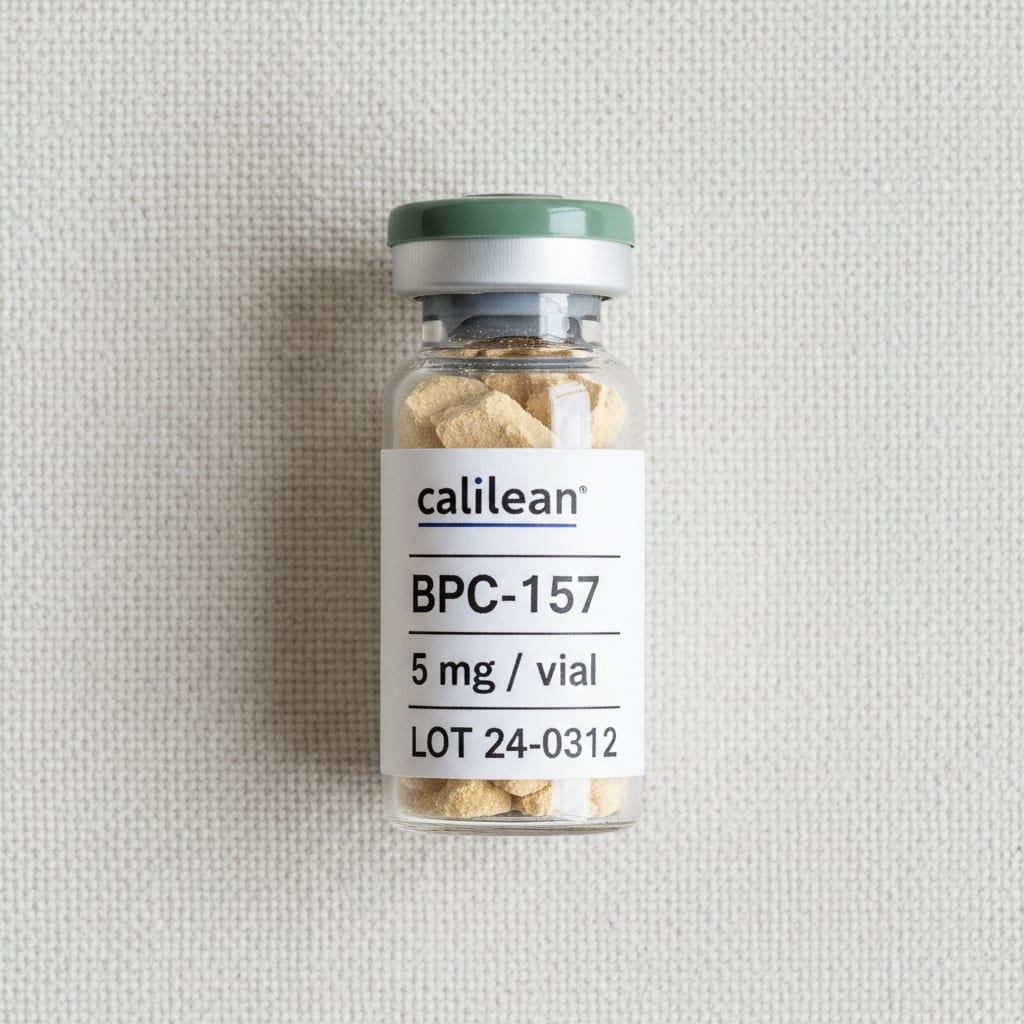
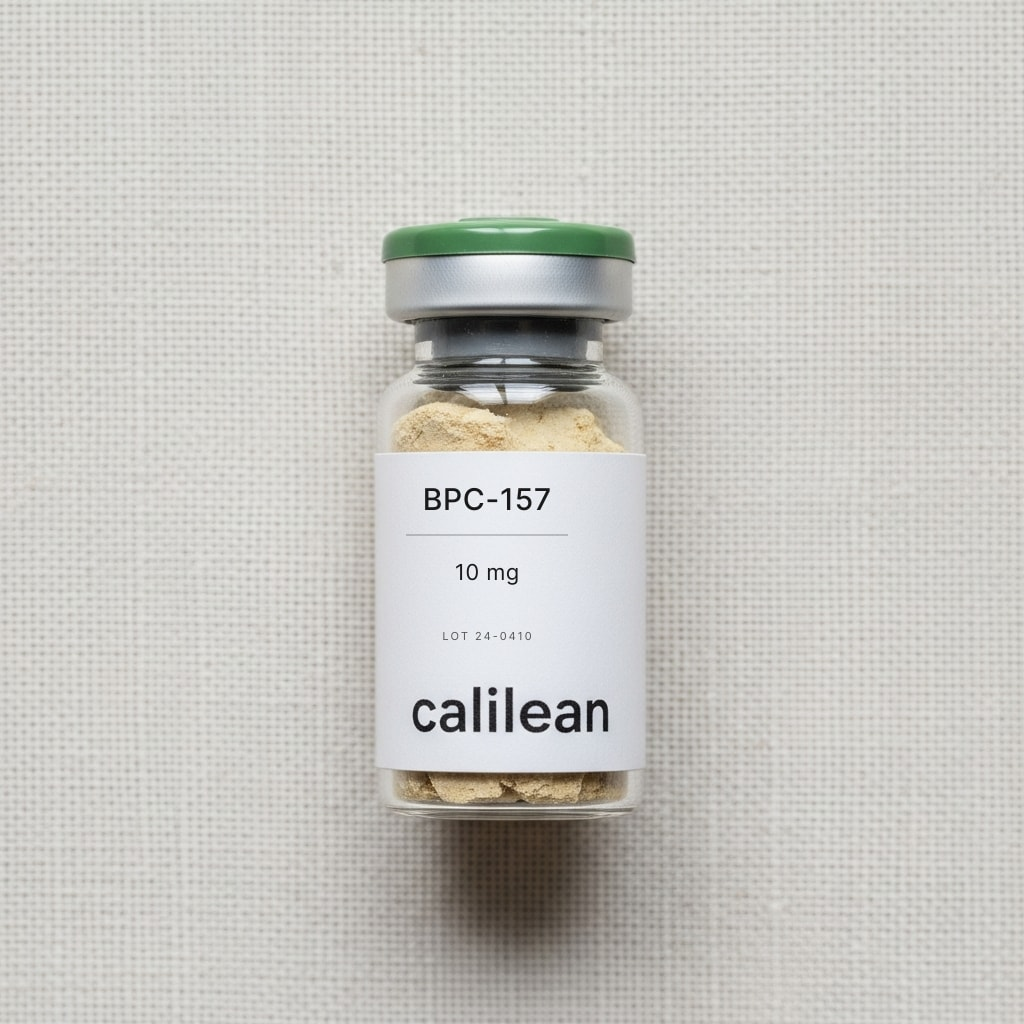
feat(brand): SKA-47 v2 ship — 8 PDP composites + v1.1 archive + log sign-off
CMO sign-off: https://app.paperclip.ing/SKA/issues/SKA-47#comment-3fb9d760-6afa-4996-99bc-065da8f4c3ef

Wires the v2 composite-master line re-render into storefront/public:

- All 8 PDP primaries (bpc-157, bpc-157-tb-500-blend, cjc-12-no-dac-ipamorelin-blend,
  glutathione, mots-c, nad, retatrutide, tb-500) replaced via
  scripts/composite-pdp-overlays.mjs --ship.
- Vial / cap / background / wordmark / white-space pixel-twin across all 8 — only
  the per-SKU compound / dosage / lot SVG overlay varies. Solves CEO line-coherence
  findings from the SKA-47 reopen.
- v1.1 NAD+ + MOTS-C raw + web archived under
  docs/brand/imagery/renders/v1.1/superseded-by-v2/.
- log.md: v2 run + composite pipeline + Designer/CMO sign-off appended.

Pipeline cost: 5 Imagen Ultra credits for the master render only. The 8 composites
are zero-spend (sharp + opentype.js). Wordmark micro-artifact risk now structurally
mitigated since per-SKU compound text is SVG <path> glyphs from Inter, not Imagen
text-to-image.

Next: HeadEng owns SKA-53 (migrate-product-images.mjs MinIO byte-upload fix) before
this reaches production catalog.

diff --git a/docs/brand/imagery/renders/log.md b/docs/brand/imagery/renders/log.md
@@ -179,3 +179,71 @@ CMO's mitigation hypothesis held: `imagen-4.0-ultra-generate-001` solved the NAD
 For composition guards on MOTS-C, the additions that worked were "exactly equidistant from the left edge and the right edge of the frame" + "no part of the label may touch or extend past any edge of the frame" + "the complete `calilean` wordmark, including its leading `c` and its trailing `n`, is fully visible". cand-2 landed centered with the full wordmark on the first try. cand-1 leaked the prompt words `Eml`/`Dosage` as visible label content; cand-3 leaked `Dossagne` plus painted an invented `C` monogram before the wordmark — both new instances of the prompt-word-leak pattern. The v1.2 brief should ban appearance of any structural English label-template language anywhere in the prompt body, not just the typography terms (`monospace`).
 
 **Cost:** 6 Imagen API calls (5 standard + 1 ultra). 2/6 = 33% winner rate, in line with the v1 batch.
+
+## Run 2026-04-27 — v2 composite-master line re-render (SKA-47)
+
+Driver: [SKA-47](/SKA/issues/SKA-47). CEO reopened v1.1 sign-off with line-level coherence findings: vial size drifts ~30%–50% frame-fill across the 8 SKUs, cap saturation/hue ranges sage→forest, background tone varies, wordmark `™`/`®` micro-artifacts survive every prompt-side ban. Pilot evidence ([comment](/SKA/issues/SKA-47#comment-bcacb953-062b-44aa-ad1b-75b3d5530c18)) confirmed Imagen 4 Ultra cannot produce identical-twin renders text-to-image (seed param rejected on `generativelanguage` endpoint, ~15% frame-fill variance even with locked prompts).
+
+Architecture lock ([CMO A/B call](/SKA/issues/SKA-47#comment-0c7f470a-9e48-4d97-96de-0ad2fbdda084), [CEO confirm](/SKA/issues/SKA-47#comment-360d4a5b-bc0c-441b-9b88-c9a0640440ee)): one master vial rendered at Ultra (vial size + background + cap + wordmark all baked in) → per-SKU SVG label overlay (compound / dosage / lot) → composite via `sharp`. Pixel-twin vials, label-only variance.
+
+### Master vial — 5 Ultra credits
+
+3 round-1 candidates + 2 round-2 retries on framing. Round 1 landed at ~30% vial frame-fill (too small); round 2 with explicit "near-full-frame hero" language pushed to ~38% (CMO accepted vs spec-50% — the storefront PDP card crops most of the negative space). SELECTED = round-2 cand-01.
+
+| Candidate | Model | Aspect | Vial fill | Cap | Wordmark | Verdict |
+|---|---|---|---|---|---|---|
+| master-vial.cand-01 (round 1) | ultra | 1:1 | ~30% | sage uniform | `calilean` clean | rejected (too small) |
+| master-vial.cand-02 (round 1) | ultra | 1:1 | ~28% | sage uniform | clean | rejected (too small) |
+| master-vial.cand-03 (round 1) | ultra | 1:1 | ~32% | sage uniform | clean | rejected (too small) |
+| master-vial.cand-01 (round 2) ★ | ultra | 1:1 | ~38% | sage uniform | clean | **SELECTED** |
+| master-vial.cand-02 (round 2) | ultra | 1:1 | ~35% | sage uniform | clean | rejected (slightly off-center) |
+
+★ = `docs/brand/imagery/renders/v2-pilot/master/raw/master-vial.SELECTED.png` (1024×1024, 1.3MB).
+
+### Composite pipeline — 0 Imagen credits
+
+`scripts/composite-pdp-overlays.mjs` reads the master once, generates a per-SKU SVG with the 3-line label overlay (compound / dosage / lot — wordmark is baked into the master), composites via `sharp`, and writes to `docs/brand/imagery/renders/v2-pilot/composites/{raw,web}/`. With `--ship`, also writes to `storefront/public/brand/products/{slug}/pdp-primary.jpg`.
+
+Text is converted to SVG `<path>` glyphs upfront via `opentype.js` from Inter Regular/Medium TTFs vendored at `scripts/fonts/`. No system fontconfig dependency, no @font-face data-URI hacks — reproducible on any agent's workstation.
+
+Compound size auto-shrinks (30 → 24 → 20 → 16 px) so blends like `CJC-1295 / IPAMORELIN` fit one line without wrapping.
+
+| Slug | Compound | Dosage | Lot | Storefront file size |
+|---|---|---|---|---|
+| bpc-157 | BPC-157 | 10 mg | LOT 24-0410 | 151,246 B |
+| bpc-157-tb-500-blend | BPC-157 / TB-500 | 5 mg + 5 mg | LOT 24-0421 | 151,418 B |
+| cjc-12-no-dac-ipamorelin-blend | CJC-1295 / IPAMORELIN | 5 mg + 5 mg | LOT 24-0371 | 152,244 B |
+| glutathione | GLUTATHIONE | 1500 mg | LOT 24-0513 | 152,167 B |
+| mots-c | MOTS-C | 40 mg | LOT 24-0865 | 151,248 B |
+| nad | NAD+ | 500 mg | LOT 24-0424 | 151,001 B |
+| retatrutide | RETATRUTIDE | 15 mg | LOT 24-0543 | 151,903 B |
+| tb-500 | TB-500 | 10 mg | LOT 24-0542 | 151,083 B |
+
+## QA gate — v2 sign-off (Designer + CMO, 2026-04-27)
+
+Per [SKA-47](/SKA/issues/SKA-47) definition of done: vial size identical across all 8, writing same size, background same, cap same, wordmark clean. CMO sign-off in [comment](/SKA/issues/SKA-47#comment-3fb9d760-6afa-4996-99bc-065da8f4c3ef): master + per-SKU typography + line coherence all APPROVED.
+
+| Render | Verdict | Notes |
+|---|---|---|
+| `pdp-primary-bpc-157` | ✅ ship | Master + 3-line overlay. Pixel-twin vial. |
+| `pdp-primary-bpc-157-tb-500-blend` | ✅ ship | Compound auto-shrunk to fit one line. |
+| `pdp-primary-cjc-12-no-dac-ipamorelin-blend` | ✅ ship | Compound auto-shrunk; CJC blend reads correctly. |
+| `pdp-primary-glutathione` | ✅ ship | Pixel-twin vial. |
+| `pdp-primary-mots-c` | ✅ ship | Supersedes v1.1 cand-2. |
+| `pdp-primary-nad` | ✅ ship | Supersedes v1.1 Ultra retake. |
+| `pdp-primary-retatrutide` | ✅ ship | Pixel-twin vial. |
+| `pdp-primary-tb-500` | ✅ ship | Pixel-twin vial. |
+
+**Net:** 8/8 ship. Vial / cap / background / wordmark / white-space identical across all 8 — only the per-SKU compound / dosage / lot lines change. Solves every line-level finding from CEO's [reopen comment](/SKA/issues/SKA-47#comment-e65d515b-23e7-4e4d-9dde-8876065460f3).
+
+Superseded v1.1 raw archived at `docs/brand/imagery/renders/v1.1/superseded-by-v2/{raw,web}/`.
+
+### Architectural note
+
+The `™`/`®` micro-artifact risk that survived every v1 prompt-side mitigation is now **structurally eliminated** at the per-SKU layer: compound text is SVG `<path>` glyphs from Inter, not Imagen text-to-image. Wordmark is baked into the master (one render to QA, not 8). [SKA-13](/SKA/issues/SKA-13) (vector-overlay wordmark) drops from "required fallback" to "only if a future master re-render leaks again."
+
+**Cost summary:** 5 Ultra credits total for SKA-47 v2 (master only). All 8 PDP composites = zero Imagen spend.
+
+### Handoff
+
+HeadEng owns [SKA-53](/SKA/issues/SKA-53) — fix `scripts/migrate-product-images.mjs` to actually upload bytes to MinIO (not just PATCH product URLs) before reseeding the catalog. Without that fix, the storefront-public files won't reach production MinIO and CEO will have to re-link manually (the failure mode flagged in [reopen comment](/SKA/issues/SKA-47#comment-e65d515b-23e7-4e4d-9dde-8876065460f3)).
